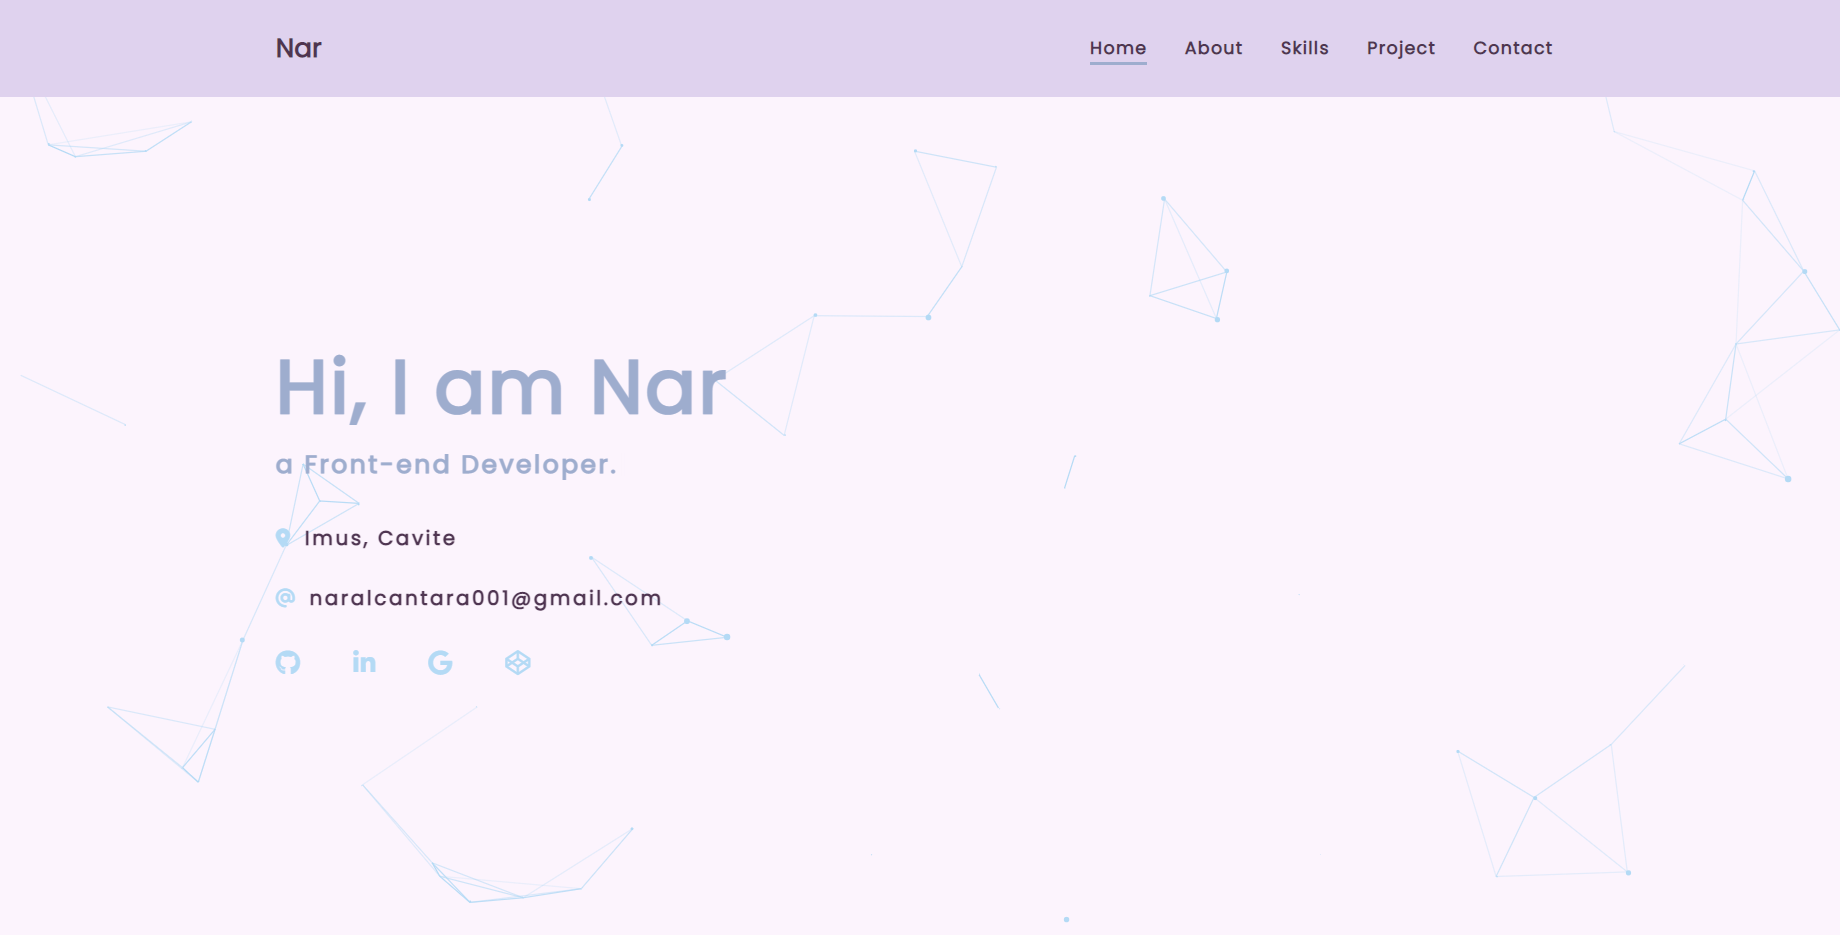
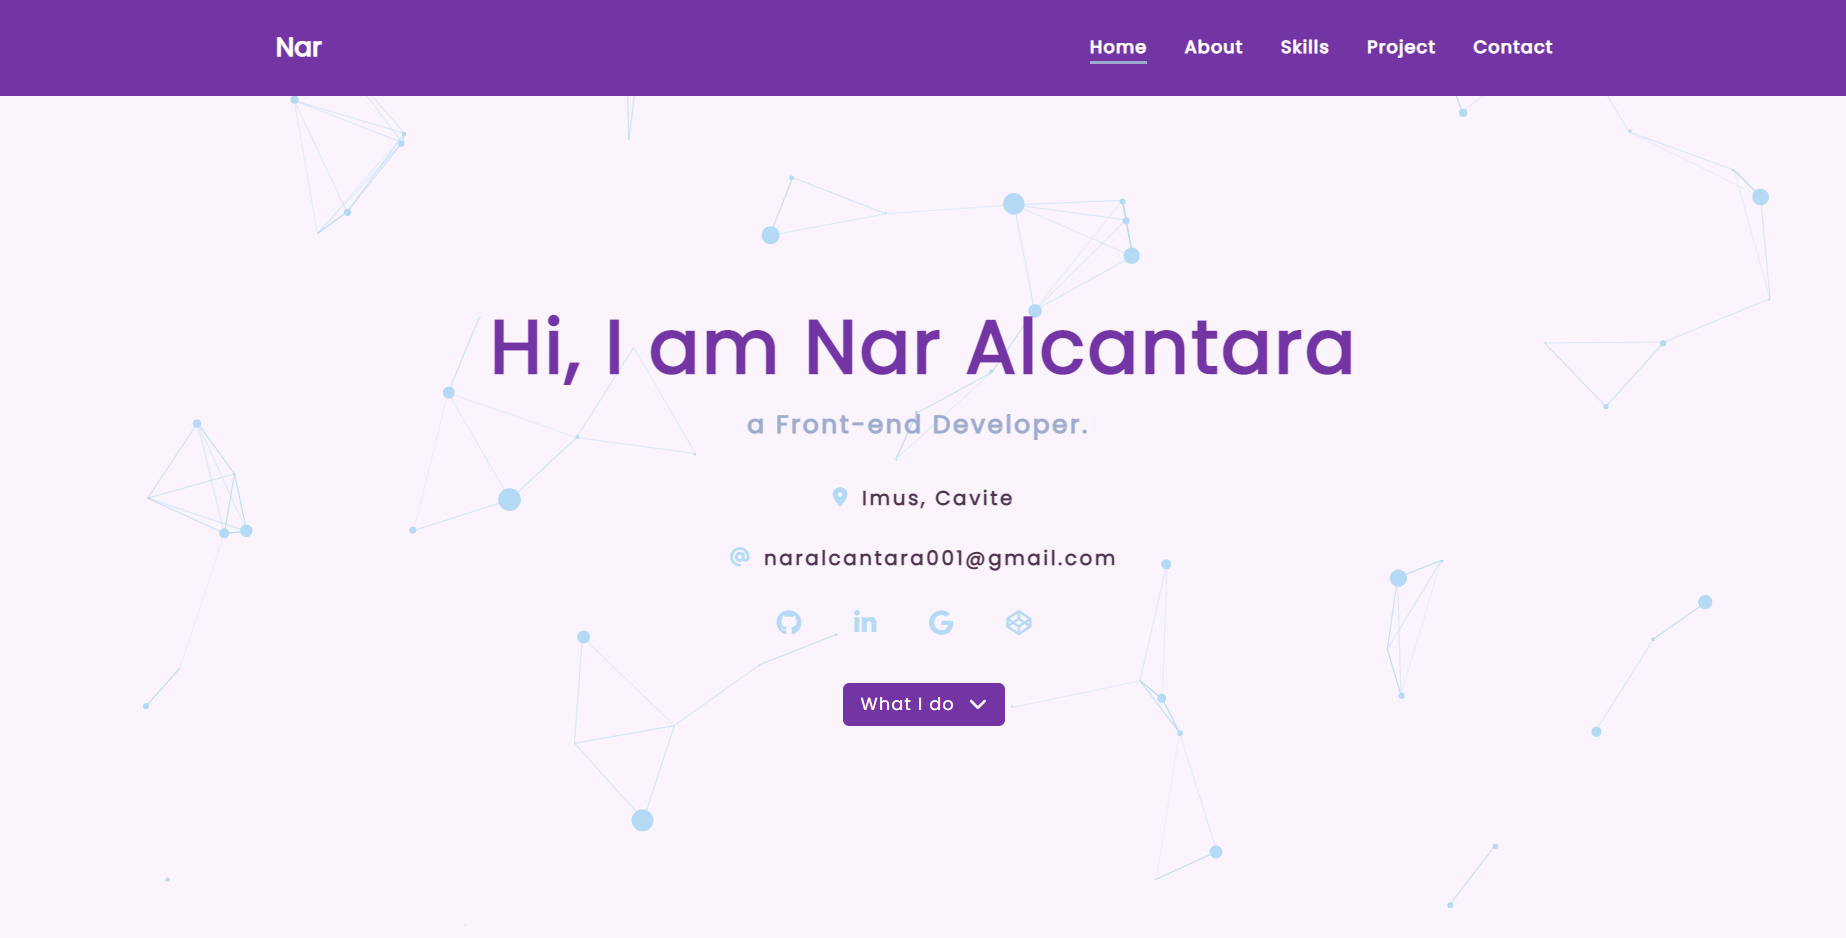
Add files via upload

diff --git a/style.scss b/style.scss
@@ -30,7 +30,7 @@ $black: #171120;
 // 
 $first: #fcf4fd;
 $second:#4f3551;
-$third: #dfd2ee;
+$third: #7334a4;
 $fourt: #999;
 $six: #b4daf5;
 $seven: #9eadce;
@@ -239,7 +239,7 @@ header {
 .logo {
   font-size: 21px;
   font-weight: bolder;
-  color: $second;
+  color: $white;
   margin: 13px 0;
 }
 
@@ -265,7 +265,7 @@ nav {
     & a {
       text-decoration: none;
       letter-spacing: 1px;
-      color: $second;
+      color: $white;
       padding-bottom: 2px;
     
   
@@ -302,7 +302,7 @@ nav {
   padding: 0 15%;
   display: flex;
   flex-direction: column;
-  align-items: baseline;
+  align-items: center;
   text-align: left;
   justify-content: center;
   letter-spacing: 2px;
@@ -318,14 +318,14 @@ nav {
   line-height: 1.5em;
   display: flex;
   flex-direction: column;
-  justify-content: left;
-  align-items: left;
-  text-align: left;
+  justify-content: center;
+  align-items: center;
+  text-align: center;
 
   & .myName {
     z-index: 1;
     font-size: 60px;
-    color: $seven;
+    color: $third;
     // text-shadow: 0 5px 5px rgba(0, 0, 0, 0.1);
   }
 
@@ -386,10 +386,10 @@ nav {
 }
 
 .cv {
-  background-color: $darkBlue;
+  background-color: $third;
   color: $white;
   padding: 0.5em 1em;
-  font-size: 0.5em;
+  font-size: 14px;
   letter-spacing: 1px;
   margin-top: 2em;
   border-radius: 5px;
@@ -428,6 +428,7 @@ nav {
 
   .i-do {
     // border: 1px solid $second;
+    // border: 1px solid #7334a4;
     background-color: $first;
     display: flex;
     padding: 25px;
@@ -442,7 +443,7 @@ nav {
     transition: .3s;
     border-radius: 5px;
     // box-shadow: 0 5px 5px rgba(0, 0, 0, 0.2);
-    // box-shadow: 0 5px 10px rgba(255, 255, 255, 0.2);
+    box-shadow: 1px 1px 1px #7334a4;
   }
 
   .i-do-title {
@@ -474,7 +475,7 @@ nav {
     margin-top: 30px;
     display: grid;
     grid-template-columns: 1fr 1fr 1fr 1fr;
-    gap: 30px;
+    gap: 10px;
   }
 
   .skill-container:hover {
@@ -495,6 +496,7 @@ nav {
     transition: .3s;
     border-radius: 5px;
     // box-shadow: 0 5px 5px rgba(0, 0, 0, 0.2);
+    box-shadow: 1px 1px 1px #7334a4;
   }
   i{
     font-size: 50px;
@@ -533,6 +535,7 @@ nav {
       border-radius: 5px;
       // border: 1px solid $purple;
       // box-shadow: 0 5px 3px rgba(0, 0, 0, 0.2);
+      box-shadow: 1px 1px 1px #7334a4;
       img {
         border-radius: 5px;
         width: 100%;
@@ -577,8 +580,8 @@ nav {
         padding: 12px;
         font-size: 14px;
         font-weight: bold;
-        color: $second;
-        border: 1px solid $second;
+        color: $third;
+        border: 1px solid $third;
         border-radius: 5px;
         // box-shadow: 0 5px 5px rgba(0, 0, 0, 0.1);
         transition: .3s;
@@ -596,7 +599,7 @@ nav {
       }
       .view-website{
         color: $white;
-        background-color: $second;
+        background-color: $third;
       }
     }
   }

diff --git a/style.css b/style.css
@@ -151,7 +151,7 @@ section {
 
 header {
   width: 100%;
-  background-color: #dfd2ee;
+  background-color: #7334a4;
   position: sticky;
   top: 0;
   z-index: 2;
@@ -172,7 +172,7 @@ header {
 .logo {
   font-size: 21px;
   font-weight: bolder;
-  color: #4f3551;
+  color: white;
   margin: 13px 0;
 }
 
@@ -195,7 +195,7 @@ nav li {
 nav li a {
   text-decoration: none;
   letter-spacing: 1px;
-  color: #4f3551;
+  color: white;
   padding-bottom: 2px;
   cursor: pointer;
 }
@@ -225,7 +225,7 @@ nav li a {
   padding: 0 15%;
   display: flex;
   flex-direction: column;
-  align-items: baseline;
+  align-items: center;
   text-align: left;
   justify-content: center;
   letter-spacing: 2px;
@@ -238,14 +238,14 @@ nav li a {
   line-height: 1.5em;
   display: flex;
   flex-direction: column;
-  justify-content: left;
-  align-items: left;
-  text-align: left;
+  justify-content: center;
+  align-items: center;
+  text-align: center;
 }
 .name .myName {
   z-index: 1;
   font-size: 60px;
-  color: #9eadce;
+  color: #7334a4;
 }
 .name .greetings {
   font-size: 0.5em;
@@ -300,10 +300,10 @@ nav li a {
 }
 
 .cv {
-  background-color: #424874;
+  background-color: #7334a4;
   color: white;
   padding: 0.5em 1em;
-  font-size: 0.5em;
+  font-size: 14px;
   letter-spacing: 1px;
   margin-top: 2em;
   border-radius: 5px;
@@ -347,6 +347,7 @@ nav li a {
   margin: 20px;
   transition: 0.3s;
   border-radius: 5px;
+  box-shadow: 1px 1px 1px #7334a4;
 }
 #about .i-do-title {
   font-size: 20px;
@@ -373,7 +374,7 @@ nav li a {
   margin-top: 30px;
   display: grid;
   grid-template-columns: 1fr 1fr 1fr 1fr;
-  gap: 30px;
+  gap: 10px;
 }
 #skills .skill-container:hover {
   transform: scale(1.1);
@@ -391,6 +392,7 @@ nav li a {
   color: #9eadce;
   transition: 0.3s;
   border-radius: 5px;
+  box-shadow: 1px 1px 1px #7334a4;
 }
 #skills i {
   font-size: 50px;
@@ -425,6 +427,7 @@ nav li a {
   margin: 30px 20px;
   background-color: #fcf4fd;
   border-radius: 5px;
+  box-shadow: 1px 1px 1px #7334a4;
 }
 #projects .project-container .item img {
   border-radius: 5px;
@@ -468,8 +471,8 @@ nav li a {
   padding: 12px;
   font-size: 14px;
   font-weight: bold;
-  color: #4f3551;
-  border: 1px solid #4f3551;
+  color: #7334a4;
+  border: 1px solid #7334a4;
   border-radius: 5px;
   transition: 0.3s;
 }
@@ -486,7 +489,7 @@ nav li a {
 }
 #projects .project-container .item .view-website {
   color: white;
-  background-color: #4f3551;
+  background-color: #7334a4;
 }
 
 #contact {
@@ -588,7 +591,7 @@ footer {
     width: 100%;
     transform: translateX(100%);
     transition: transform 0.5s ease-in;
-    background-color: #dfd2ee;
+    background-color: #7334a4;
   }
   .nav-links li {
     width: 100%;

diff --git a/index.html b/index.html
@@ -65,7 +65,7 @@
         <!-- <img class="myPhoto" src="dp11.png" alt="icon"> -->
         <div class="name">
             <h1 class="myName reveal">
-                <p style="font-size: 20px; display: inline;"></p>Hi, I am  Nar
+                <p style="font-size: 20px; display: inline;"></p>Hi, I am  Nar Alcantara
             </h1>
             <p class="profession reveal" >a Front-end Developer</p>
 
@@ -93,6 +93,11 @@
                     </i>download CV<i class="fas fa-chevron-down arrow-down"></i>
                 </button>
             </a> -->
+            <a href="#about" >
+                <button class="cv reveal">
+                    </i>What I do<i class="fas fa-chevron-down arrow-down"></i>
+                </button>
+            </a>
         </div>
     </section>
 
@@ -145,6 +150,12 @@
                 <img src="https://skillicons.dev/icons?i=css" />
                 <p>CSS3</p>
             </div>
+             <!--  -->
+            <!--  -->
+            <div class="skill-container reveal">
+                <img src="https://skillicons.dev/icons?i=javascript" />
+                <p>JAVASCRIPT</p>
+            </div>
             <!--  -->
             <!--  -->
             <div class="skill-container reveal">
@@ -157,11 +168,12 @@
                 <img src="https://skillicons.dev/icons?i=nextjs" />
                 <p>NEXTJS</p>
             </div>
+           
             <!--  -->
             <!--  -->
             <div class="skill-container reveal">
-                <img src="https://skillicons.dev/icons?i=javascript" />
-                <p>JAVASCRIPT</p>
+                <img src="https://skillicons.dev/icons?i=react" />
+                <p>REACTNATIVE</p>
             </div>
             
             <!--  -->
@@ -181,6 +193,12 @@
             <div class="skill-container reveal">
                 <img src="https://skillicons.dev/icons?i=sass" />
                 <p>SASS</p>
+            </div>
+            <!--  -->
+            <!--  -->
+            <div class="skill-container reveal">
+                <img src="https://skillicons.dev/icons?i=bootstrap" />
+                <p>BOOTSTRAP5</p>
             </div>
             <!--  -->
             <!--  -->

diff --git a/script.js b/script.js
@@ -2,7 +2,7 @@ window.onload = function() {
   Particles.init({
     selector: '.background',
     maxParticles: 70,
-    sizeVariations: 3,
+    sizeVariations: 10,
     speed: 1,
     color: '#b4daf5',
     minDistance: 120,
